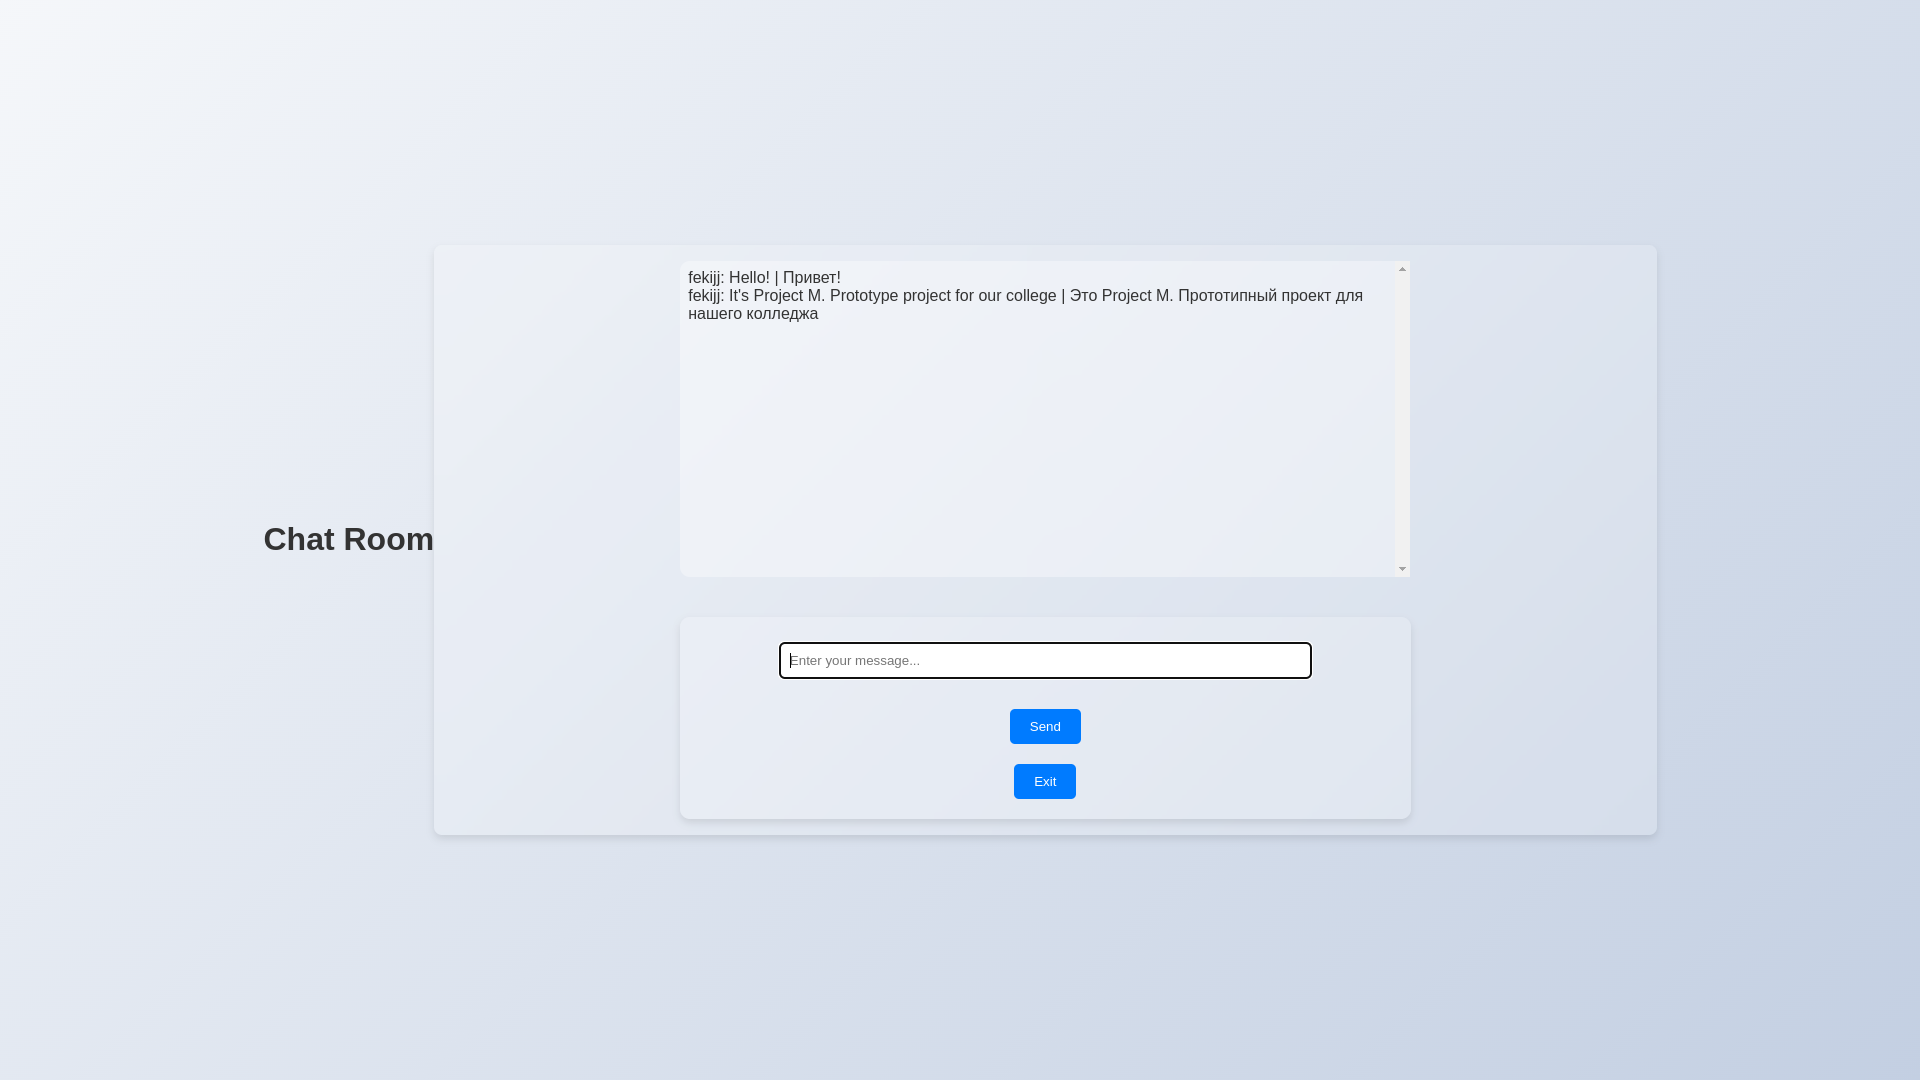
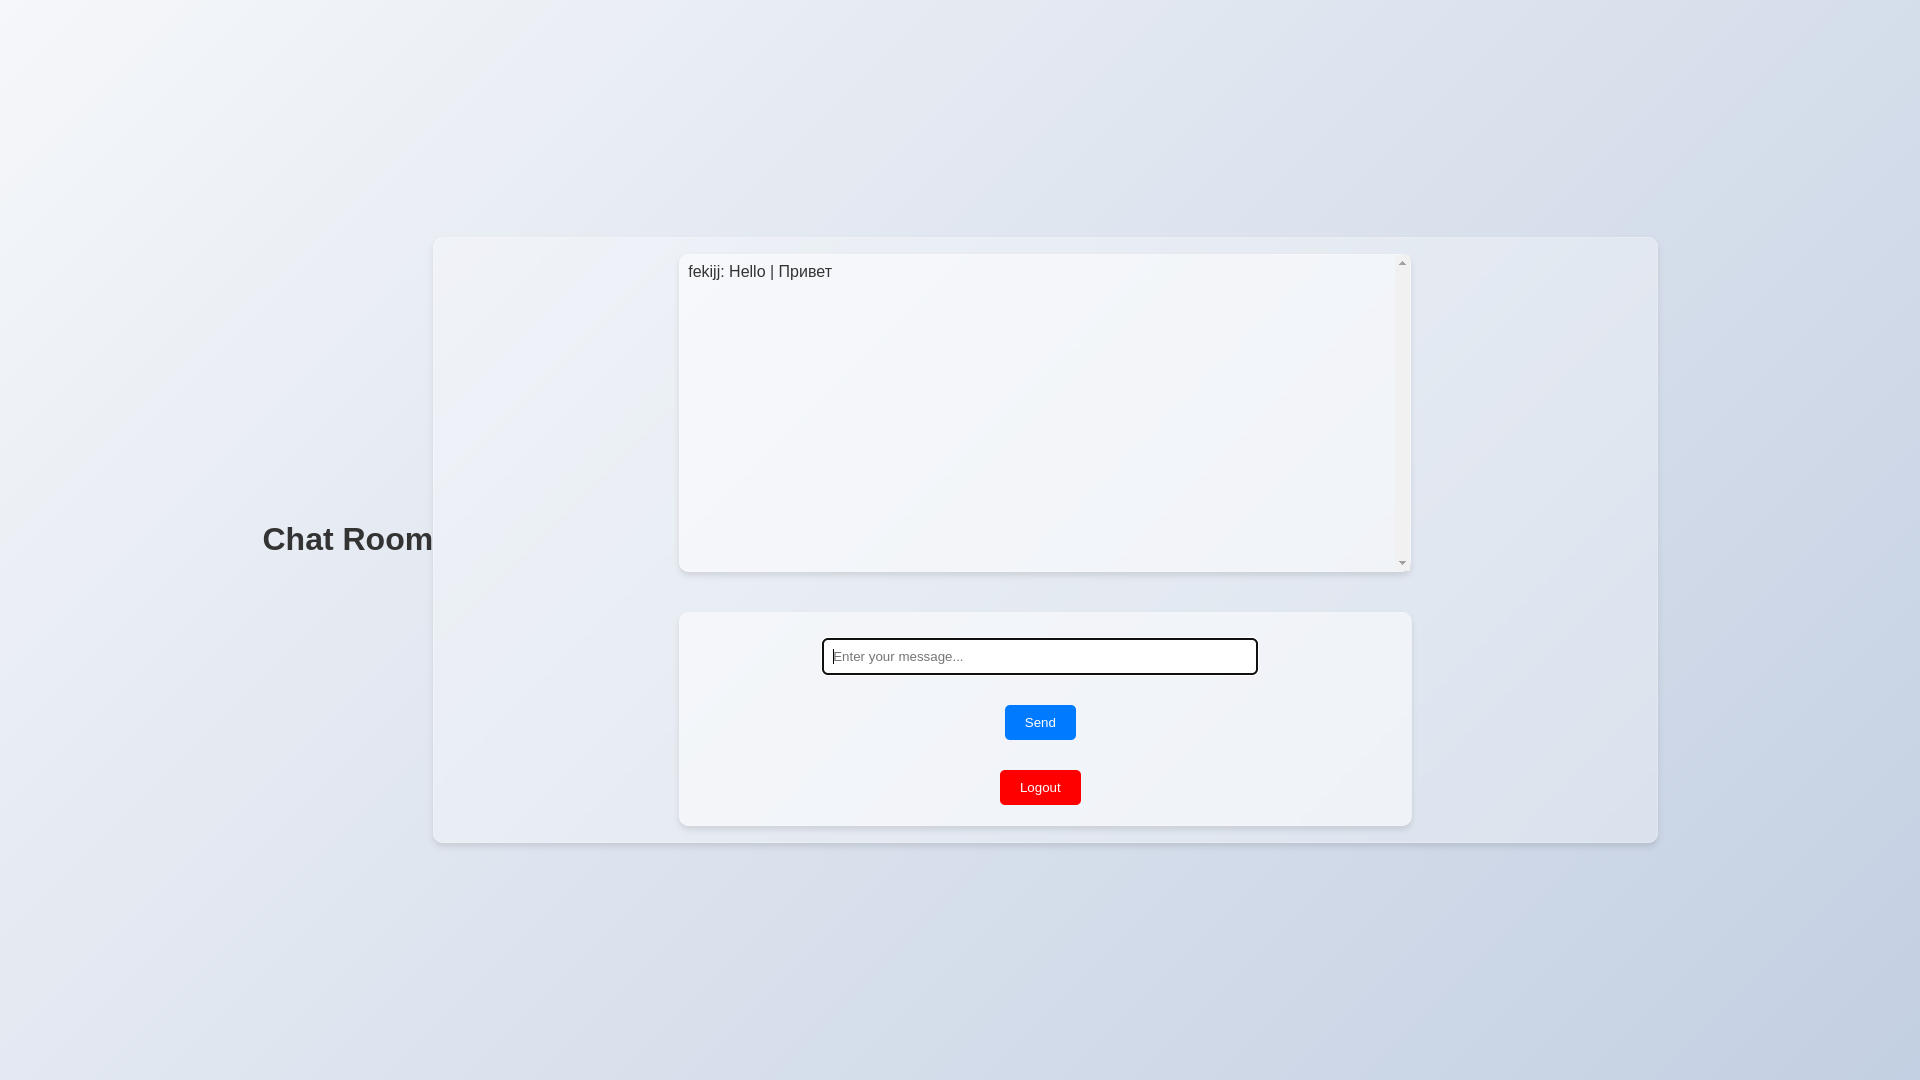
Little redesign, update images, little update py files

Changed region(s): [[0.3438, 0.5806, 0.875, 0.7944], [0.3438, 0.2444, 0.4375, 0.3056], [0.125, 0.4889, 0.2188, 0.5194]]

diff --git a/static/css/styles.css b/static/css/styles.css
@@ -78,7 +78,6 @@ button:hover {
     padding: 16px;
 }
 
-
 #messages {
     width: 60%;
     height: 300px;
@@ -91,25 +90,27 @@ button:hover {
 #message-form {
     display: flex;
     width: 58%;
-    align-items: center;
-    justify-content: space-between;
+    justify-content: space-around;
+    gap: 10px;
+    align-items: center;  /* Align items in the center */
 }
 
-#message_input {
-    flex: 1;
+#message-input {
+    width: 60%;
+    flex-grow: 1;
     padding: 10px;
     margin-right: 10px;
 }
 
 #submit, #logout-btn {
-    padding: 10px 20px;
     margin-right: 10px;
 }
 
-#logout {
+#logout-btn {
     background-color: red;
     color: white;
 }
+
 
 a.button {
     display: inline-block;

diff --git a/templates/chat.html b/templates/chat.html
@@ -13,9 +13,9 @@
         <div id="messages"></div>
         <form id="message-form">
             <input type="text" id="message-input" placeholder="Enter your message...">
-            <button type="submit">Send</button>
-            <button id="logout-btn">Exit</button>
-        </form>
+            <button type="submit" id="submit">Send</button>
+            <button id="logout-btn">Logout</button>
+        </form>        
     </div>
     <script>
         const socket = io();

diff --git a/app.py b/app.py
@@ -7,8 +7,12 @@ socketio = SocketIO(app)
 
 @socketio.on('send_message')
 def handle_send_message_event(data):
-    app.logger.info("{} has sent message to the room {}: {}".format(data['username'], data['room'], data['message']))
-    emit('receive_message', data, room=data['room'])
+    if data['message'].strip() != "":
+        app.logger.info(f"{data['username']} has sent message to the room {data['room']}: {data['message']}")
+        emit('receive_message', data, room=data['room'])
+    else:
+        emit('error', {'error': 'Empty message'}, room=request.sid)
+
 
 @socketio.on('join_room')
 def handle_join_room_event(data):

diff --git a/routes.py b/routes.py
@@ -38,3 +38,4 @@ def chat():
     if 'username' not in session:
         return redirect(url_for('login'))
     return render_template('chat.html', username=session['username'])
+
